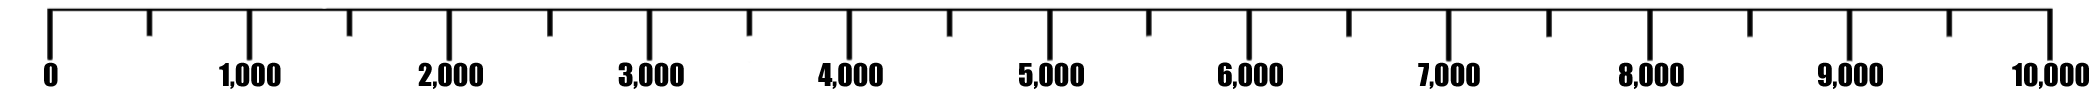
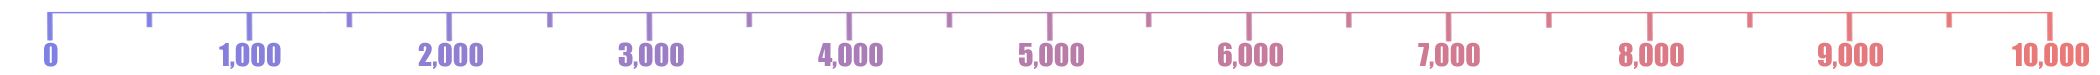
add ruler to web

diff --git a/rocketproject/index.html b/rocketproject/index.html
@@ -28,8 +28,11 @@
                 <dir class="header" id="clock">Time Elapsed 00 : 00 : 00</dir>      
                 <div class="sub_header" id="changeTextSnail">Snail</div>
                 <div class="boxshowspeed">
-                    <div class="run_snail" id="paused_snail"><img src="Icon/snail.png" alt="" width="80px" height="80px"></img>
+                    <div class="run_snail" id="paused_snail">
+                        <img src="Icon/snail.png" alt="" width="80px" height="80px">
+                        </img>
                     </div>
+                    <img class="ruler" src="Bg/ruler_white.png"></img>
                 </div>
                 <div class="bottom_panel">
                     <div class="timer" id="snail_countdown">69445 hour(s) remaining</div>
@@ -68,6 +71,7 @@
                 <div class="boxshowspeed">
                     <div tag class="run_human" id="paused_human"><img src="Icon/human.png" alt="" width="80px" height="80px"></img>
                     </div>
+                    <img class="ruler" src="Bg/ruler_white.png"></img>
                 </div>
                 <div class="bottom_panel">
                     <div class="timer" id="human_countdown">417 hour(s) remaining</div>
@@ -105,7 +109,7 @@
 
                     <div class="run_usian_bolt" id="paused_usian_bolt"><img src="Icon/usianbolt.png" alt="" width="80px" height="150px"></img>
                     </div>
-
+                    <img class="ruler" src="Bg/ruler_white.png"></img>
                 </div>
                 <div class="bottom_panel">
                     <div class="timer" id="usian_bolt_countdown">225 hour(s) remaining</div>
@@ -142,6 +146,7 @@
                 <div class="boxshowspeed">
                     <div class="run_zebra" id="paused_zebra"><img src="Icon/zebra.png" alt="" width="80px" height="80px"></img>
                     </div>
+                    <img class="ruler" src="Bg/ruler_white.png"></img>
                 </div>
                 <div class="bottom_panel">
                     <div class="timer" id="zebra_countdown">157 hour(s) remaining</div>
@@ -178,6 +183,7 @@
 
                     <div class="run_tank" id="paused_tank"><img src="Icon/tank.png" alt="" width="80px" height="80px"></img>
                     </div>
+                    <img class="ruler" src="Bg/ruler_white.png"></img>
 
                 </div>
                 <div class="bottom_panel">
@@ -215,6 +221,7 @@
                 <div class="boxshowspeed">
                     <div tag class="run_skytrain" id="paused_skytrain"><img src="Icon/train.png" alt="" width="80px" height="80px"></img>
                     </div>
+                    <img class="ruler" src="Bg/ruler_black.png"></img>
                 </div>
                 <div class="bottom_panel">
                     <div class="timer" id="skytrain_countdown">125 hour(s) remaining</div>
@@ -250,6 +257,7 @@
                 <div class="boxshowspeed">
                     <div tag class="run_lion" id="paused_lion"><img src="Icon/lion.png" alt="" width="80px" height="80px"></img>
                     </div>
+                    <img class="ruler" src="Bg/ruler_white.png"></img>
                 </div>
                 <div class="bottom_panel">
                     <div class="timer" id="lion_countdown">125 hour(s) remaining</div>
@@ -285,6 +293,7 @@
                 <div class="boxshowspeed">
                     <div tag class="run_motorcycle" id="paused_motorcycle"><img src="Icon/motorcycle.png" alt="" width="80px" height="80px"></img>
                     </div>
+                    <img class="ruler" src="Bg/ruler_white.png"></img>
                 </div>
                 <div class="bottom_panel">
                     <div class="timer" id="motorcycle_countdown">100 hour(s) remaining</div>
@@ -320,6 +329,7 @@
                 <div class="boxshowspeed">
                     <div tag class="run_cheetah" id="paused_cheetah"><img src="Icon/cheetah.png" alt="" width="80px" height="80px"></img>
                     </div>
+                    <img class="ruler" src="Bg/ruler_white.png"></img>
                 </div>
                 <div class="bottom_panel">
                     <div class="timer" id="cheetah_countdown">84 hour(s) remaining</div>
@@ -355,6 +365,7 @@
                 <div class="boxshowspeed">
                     <div tag class="run_eagle" id="paused_eagle"><img src="Icon/eagle.png" alt="" width="80px" height="80px"></img>
                     </div>
+                    <img class="ruler" src="Bg/ruler_white.png"></img>
                 </div>
                 <div class="bottom_panel">
                     <div class="timer" id="eagle_countdown">63 hour(s) remaining</div>
@@ -390,6 +401,7 @@
                 <div class="boxshowspeed">
                     <div tag class="run_helicopter" id="paused_helicopter"><img src="Icon/helicopter.png" alt="" width="80px" height="80px"></img>
                     </div>
+                    <img class="ruler" src="Bg/ruler_white.png"></img>
                 </div>
                 <div class="bottom_panel">
                     <div class="timer" id="helicopter_countdown">40 hour(s) remaining</div>
@@ -425,6 +437,7 @@
                 <div class="boxshowspeed">
                     <div tag class="run_car" id="paused_car"><img src="Icon/car.png" alt="" width="80px" height="80px"></img>
                     </div>
+                    <img class="ruler" src="Bg/ruler_white.png"></img>
                 </div>
                 <div class="bottom_panel">
                     <div class="timer" id="car_countdown">32 hour(s) remaining</div>
@@ -460,6 +473,7 @@
                 <div class="boxshowspeed">
                     <div tag class="run_airplane" id="paused_airplane"><img src="Icon/airplane.png" alt="" width="80px" height="80px"></img>
                     </div>
+                    <img class="ruler" src="Bg/ruler_white.png"></img>
                 </div>
                 <div class="bottom_panel">
                     <div class="timer" id="airplane_countdown">14 hour(s) remaining</div>
@@ -495,6 +509,7 @@
                 <div class="boxshowspeed">
                     <div tag class="run_jet" id="paused_jet"><img src="Icon/jet.png" alt="" width="80px" height="80px"></img>
                     </div>
+                    <img class="ruler" src="Bg/ruler_white.png"></img>
                 </div>
                 <div class="bottom_panel">
                     <div class="timer" id="jet_countdown">11 hour(s) remaining</div>
@@ -530,6 +545,7 @@
                 <div class="boxshowspeed">
                     <div tag class="run_spacecraft" id="paused_spacecraft"><img src="Icon/spacecraft.png" alt="" width="80px" height="80px"></img>
                     </div>
+                    <img class="ruler" src="Bg/ruler_white.png"></img>
                 </div>
                 <div class="bottom_panel">
                     <div class="timer" id="spacecraft_countdown">2 hour(s) remaining</div>

diff --git a/rocketproject/css.css b/rocketproject/css.css
@@ -58,6 +58,13 @@ body {
     width: 30%;
 }
 
+.ruler {
+    width: 100vw;
+    height: auto;
+    position: absolute;
+    bottom: 30%;
+}
+
 .bg1 {
     /* Snail */
     background-image: url(Bg/wood.jpg);
@@ -106,7 +113,8 @@ body {
     /* Lion */
     background-image: url(Bg/4.jpg);
     background-repeat: no-repeat;
-    background-position: 0px -600px;
+    background-size: 100% 100%;
+    background-position: 0px -200px;
 }
 
 .bg8 {
